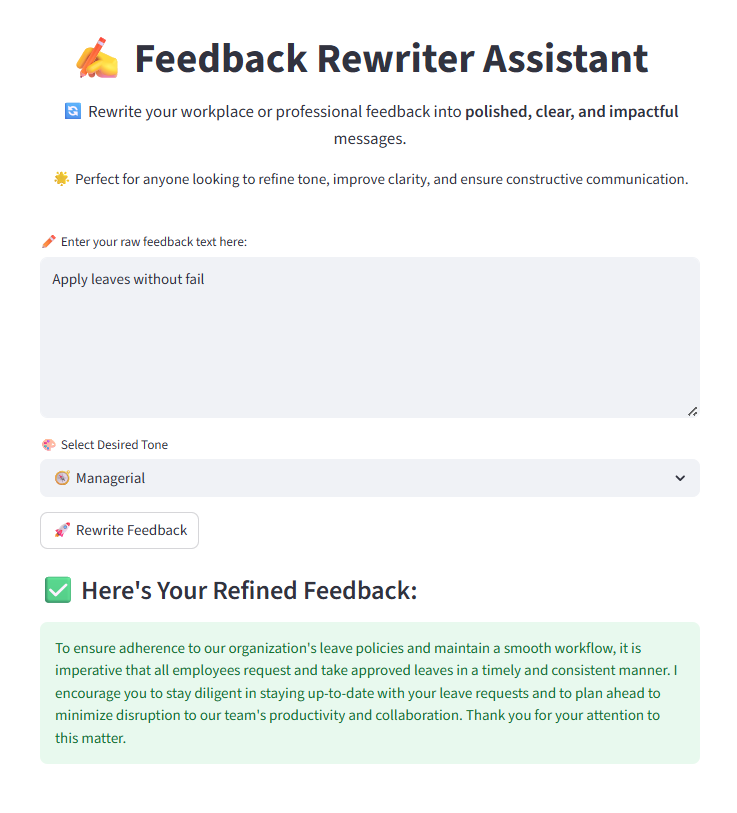
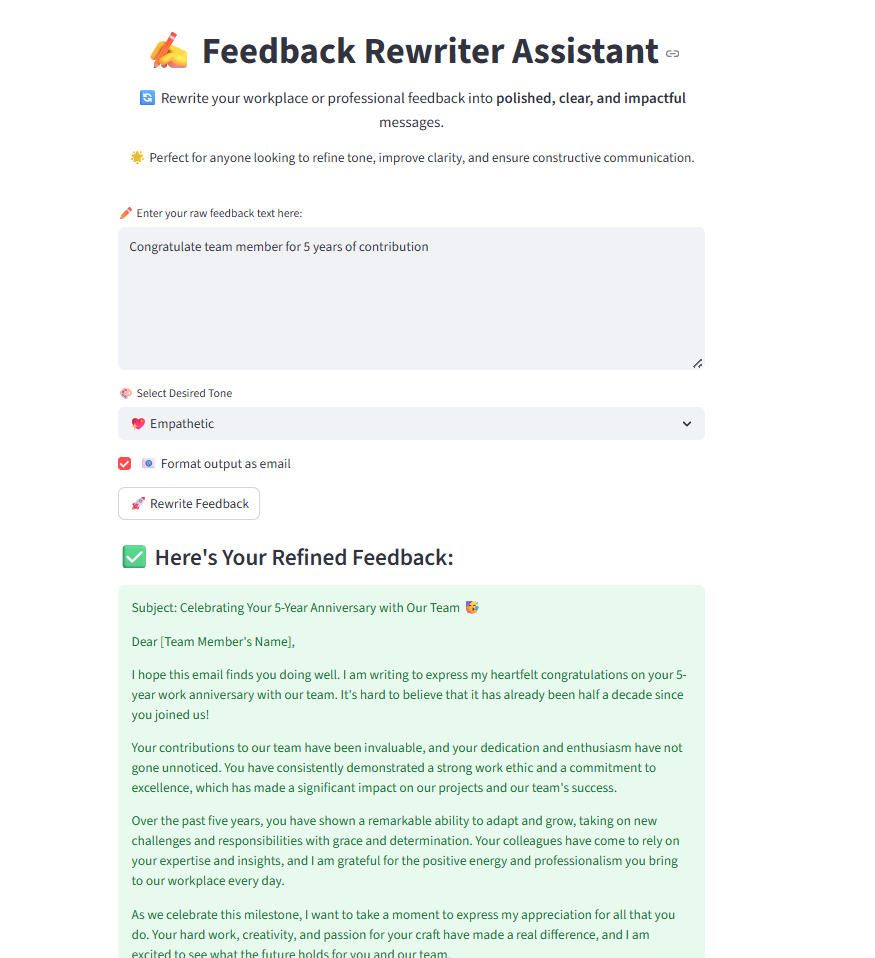
Updated readme

diff --git a/README.md b/README.md
@@ -1,30 +1,53 @@
 # ✍ Feedback Rewriter Assistant
 
-An AI-powered tool that rewrites workplace feedback into more professional, clear, and human-friendly tones — choose from **Empathetic**, **Constructive**, or **Managerial** styles.
+An AI-powered tool that rewrites workplace or professional feedback into more **clear, respectful, and human-friendly tones** — choose from styles like **Empathetic**, **Managerial**, **Formal**, **Friendly**, or **Assertive**.  
+Optionally, generate the output in a **polished email format** — great for HRs, team leads, or anyone giving constructive input.
 
-Built using [Streamlit](https://streamlit.io/) and free open LLMs from [OpenRouter](https://openrouter.ai), powered by Mistral 7B.
+Built using [Streamlit](https://streamlit.io/) and free open-source LLMs via [OpenRouter](https://openrouter.ai) — powered by models like **Mistral**, **Mixtral**, and **MythoMax**.
 
-## 🚀 Live Demo
 
-🌐 [Try the App](https://feedback-rewriter-gpt-2epkjjin5zogy4mbdwhded.streamlit.app/)
+## 🧠 What It Does
 
-## 🧠 Features
+Rewrites raw or harsh feedback messages into:
 
-* Rewrites raw or harsh feedback messages into:
+- ✅ Friendly, Empathetic, Managerial, Formal, or Assertive tone
+- ✅ Professional **email format** (optional toggle)
+- ✅ Clear and polished paragraphs (default)
+- ✅ Output in **multiple languages** (coming in v1.4)
 
-  * ✅ Empathetic tone
-  * ✅ Constructive tone
-  * ✅ Managerial tone
-* Built with OpenRouter API (free tier)
-* Powered by Mistral-7B-Instruct (fast and smart)
-* Simple, responsive UI using Streamlit
+Built with:
+- 🧠 OpenRouter API (free-tier friendly)
+- ⚡ Automatic model fallback (no dropdowns)
+- ✨ Responsive UI using Streamlit
+- 🔒 No user data stored — safe to use
+
 
 ## 📆 Tech Stack
 
-* Python
-* Streamlit
-* OpenRouter API
-* Mistral 7B Instruct LLM
+- Python 3
+- Streamlit
+- OpenRouter API
+- Mistral 7B / Mixtral / Capybara / Mythomax fallback stack
+- Markdown-based output display
+
+## 📷 Preview
+
+![Demo of Feedback Rewriter Assistant](Screenshot.png)
+
+### 🎨 Available Tones
+
+- 🧭 Managerial  
+- 💖 Empathetic  
+- 🧾 Formal  
+- 😊 Friendly  
+- 💼 Assertive
+
+### 🛠 Built With
+
+- [Streamlit](https://streamlit.io/)
+- [OpenRouter (Open Source LLM Gateway)](https://openrouter.ai/)
+- Python + Requests
+
 
 ## 🛠 Installation (Run Locally)
 
@@ -45,11 +68,19 @@ OPENROUTER_API_KEY = "sk-or-your-api-key-here"
 
 Get your free key from: [https://openrouter.ai/keys](https://openrouter.ai/keys)
 
-## 📷 Preview
-
-![App Screenshot](Screenshot.png)
 
 ## 🧾 Version History
+
+### ✅ v1.3 – Email Format Toggle + UX Enhancements
+
+- 📧 Added "Format as Email" option for professional email output
+- 📋 Copy-friendly rewritten text using markdown display
+- 🦶 Footer added with creator credit and version info
+- ✨ Preserved clean UX and fallback logic from v1.2
+- 🎯 Now feels more polished and ready for client demo or portfolio
+
+[🔗 Live App](https://feedback-rewriter-gpt-ciwy4jjbnswedu3wgppmss.streamlit.app/)
+
 
 ### ✅ v1.2 (Latest)
 - ✨ UI cleaned up with better spacing between sections
